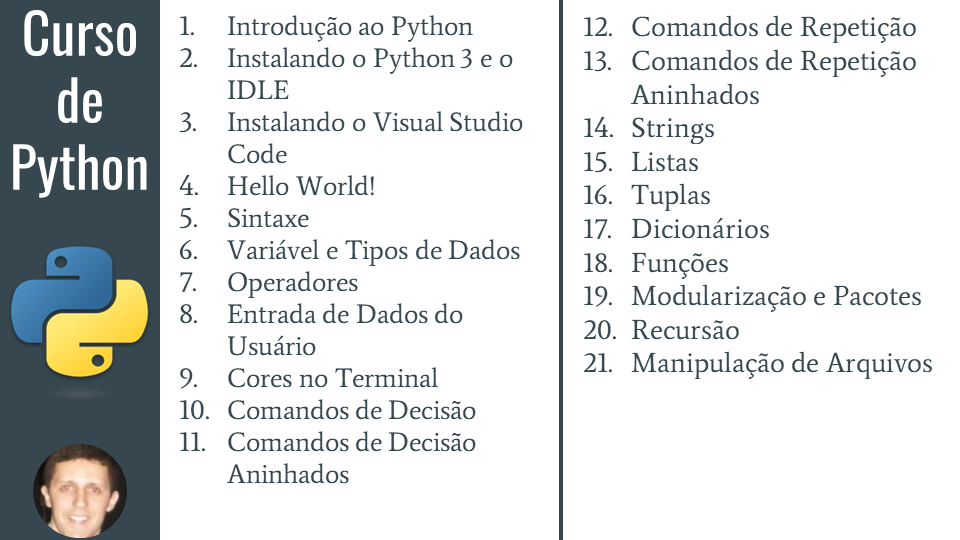
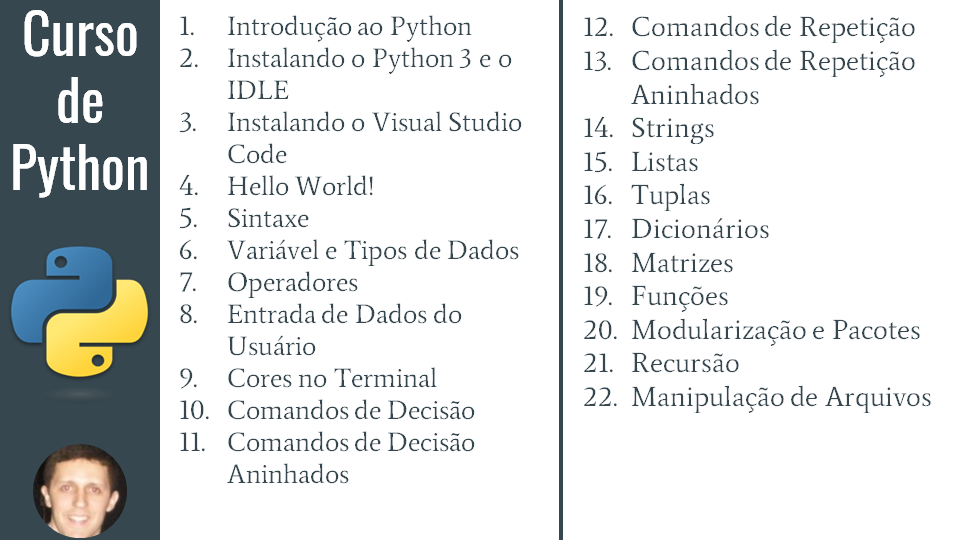
Atualização de índices

diff --git a/18-matrizes.py b/18-matrizes.py
@@ -1,0 +1,29 @@
+# Declarando uma matriz (lista de listas)
+matriz = [[1,2,3] , [4,5,6] , [7,8,9]]
+
+# Imprimindo uma matriz (maneira padrão)
+print(matriz)
+
+# Imprimindo uma matriz (formatada)
+for i in range (3):
+    for j in range (3):
+        print(matriz[i][j], end=" ")
+    print()
+
+# -------------------------------------------------------
+
+# Declarando uma matriz (lista de listas) vazia
+matriz = []
+
+# Lendo os dados da matriz
+for i in range(3):
+    linha = []
+    for j in range(3):
+        linha.append(int(input(f'matriz[{i}][{j}]: ')))
+    matriz.append(linha)
+
+# Mostrando a matriz
+for i in range (3):
+    print()
+    for j in range (3):
+        print(matriz[i][j], end=" ")

diff --git a/19-funcoes-chamadas.py b/19-funcoes-chamadas.py
@@ -1,22 +1,17 @@
 def mostrar_mensagem ( ): 
     print ("\nMensagem dentro da função")
-    return
-
+    
 def calcular_produto (x , y , z):
     print ("\nProduto: ", ( x * y * z ))
-    return
-
+    
 def calcular_quociente (a, b):
     quociente = a / b
     return quociente
 
-# Chamada da função mostrar_mensagem
 mostrar_mensagem()
 
-# Chamada da função calcular_produto, passando 3 argumentos
 calcular_produto(4, 7.5, 2.3)
 
-# Chamada da função calcular_quociente, recebendo o retorno de um valor
 q = calcular_quociente (124, 9)
 print("\nQuociente: ", q)
 

diff --git a/22-arquivos-json-write.py b/22-arquivos-json-write.py
@@ -3,7 +3,7 @@ import json
 # Formando uma lista de dicionários de pessoas
 dados = [
             {
-                'nome': 'Alberto',
+                'nome': 'Jonas',
                 'idade': 10
             },
             {
@@ -13,7 +13,8 @@ dados = [
         ]
 
 # Abrindo um arquivo JSON para escrita (apagando o conteúdo antigo)
-json_file = open('21-arquivos-json-dados.json', 'w')
+json_file = open('22-arquivos-json-dados.json', 'w')
 
 # Escrevendo o conteúdo da variável 'dados' no arquivo json_file
 json.dump(dados, json_file, indent=True)
+

diff --git a/22-arquivos-json-read-format.py b/22-arquivos-json-read-format.py
@@ -1,6 +1,6 @@
 import json
 
-json_file = open("21-arquivos-json-dados.json", 'r', encoding='utf-8')
+json_file = open("22-arquivos-json-dados.json", 'r', encoding='utf-8')
 dados = json.load(json_file)
 
 
@@ -9,3 +9,4 @@ for i in dados:
 
     # imprimindo nome e idade formatados
     print(i['nome'], 'tem', i['idade'], 'anos.')
+

diff --git a/22-arquivos-texto-write.py b/22-arquivos-texto-write.py
@@ -1,0 +1,11 @@
+file = open('22-arquivos-texto-dados.txt', 'w+')
+print('Escrevendo no arquivo txt...')
+file.write('Linha 1\n')
+file.write('Linha 2\n')
+
+lista = list()
+lista.append("Linha 3 \n")
+lista.append("Linha 4 \n")
+file.writelines(lista)
+
+file.close()

diff --git a/22-arquivos-json-read.py b/22-arquivos-json-read.py
@@ -1,7 +1,8 @@
 import json
 
-json_file = open("21-arquivos-json-dados.json", 'r')
+json_file = open("22-arquivos-json-dados.json", 'r')
 dados = json.load(json_file)
 
 print(dados) 
 # [{'nome': 'José', 'idade': 25}, {'nome': 'Maria', 'idade': 19}]
+

diff --git a/22-arquivos-texto-readline.py b/22-arquivos-texto-readline.py
@@ -1,4 +1,4 @@
-file = open('21-arquivos-texto-dados.txt', 'r')
+file = open('22-arquivos-texto-dados.txt', 'r')
 print('Lendo linha por linha do arquivo txt:')
 print(file.readline(), end='')
 print(file.readline(), end='')

diff --git a/22-arquivos-texto-read.py b/22-arquivos-texto-read.py
@@ -1,4 +1,4 @@
-file = open('21-arquivos-texto-dados.txt', 'r')
+file = open('22-arquivos-texto-dados.txt', 'r')
 print('Lendo o arquivo txt...')
 print(file.read())
 

diff --git a/22-arquivos-texto-remove.py b/22-arquivos-texto-remove.py
@@ -1,0 +1,2 @@
+import os
+os.remove('22-arquivos-texto-dados.txt')
